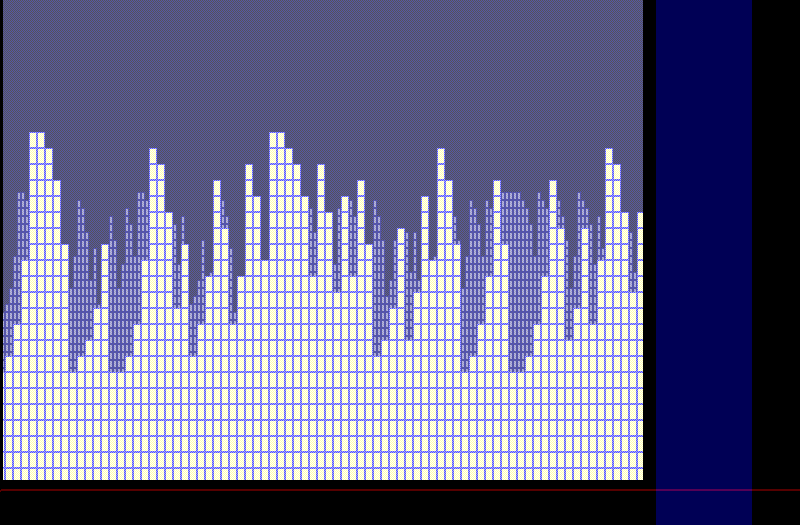
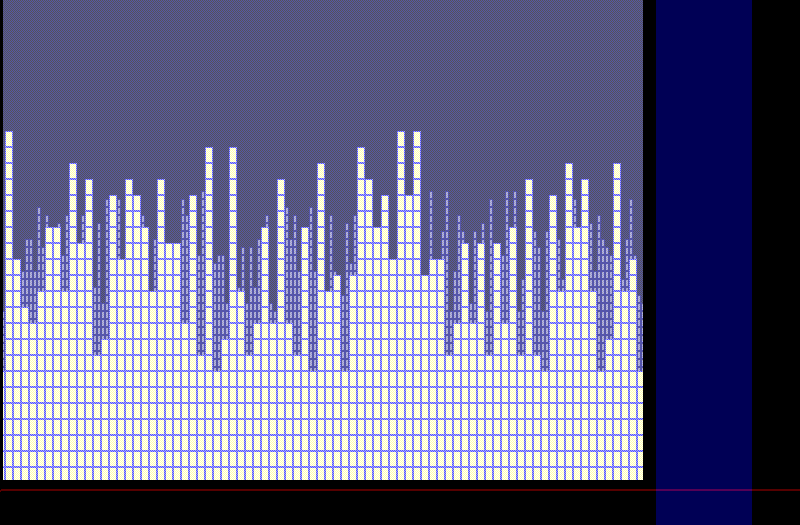
Change LFSR to a 10-bit, (probably incorrectly) paralelized version.

Changed region(s): [[0.0, 0.2438, 0.8125, 0.7314]]

diff --git a/docs/info.md b/docs/info.md
@@ -9,7 +9,7 @@ You can also include images in this folder and reference them in the markdown. E
 
 ## How it works
 
-Using plenty of counters, I'm able to to create a simple scrolling landscape
+The terrain is based on an LFSR, using the deterministic randomness of one to generate each layer of the city.
 
 ## How to test
 
